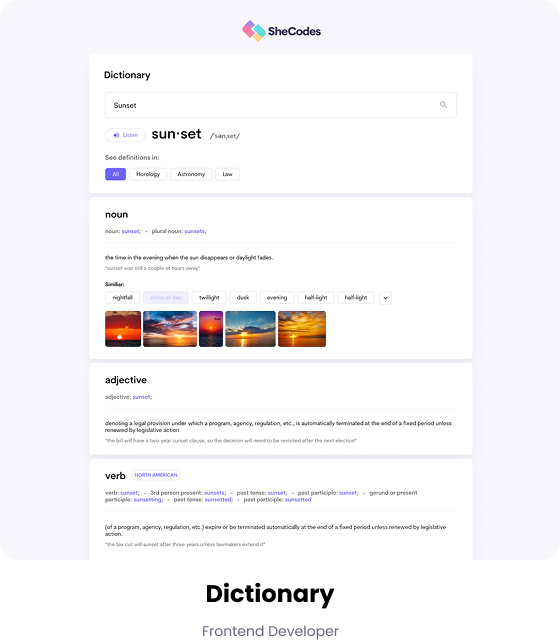
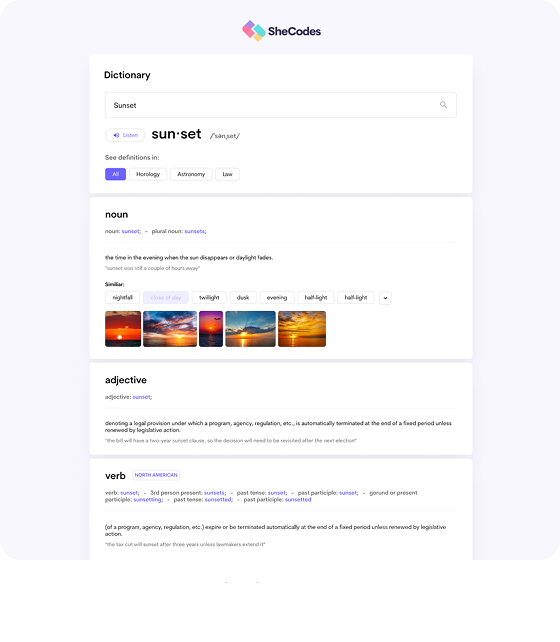
Added Work Page

Changed region(s): [[0.3643, 0.9034, 0.6071, 0.9969]]

diff --git a/work.html b/work.html
@@ -25,25 +25,38 @@
     />
     <link rel="stylesheet" href="styles/portfolio.css" />
     <meta name="viewport" content="width=device-width, initial-scale=1.0" />
-    <title>About Me</title>
+    <title>Work</title>
   </head>
   <body>
     <div class="content-container container">
-      <div class="row">
-        <div class="col-md-6">
-          <div class="content">
-            <h1 class="mb-4">Hi I am Emma Barber</h1>
-            <h2 class="mb-5">Frontend Developer based in the United States</h2>
-            <p class="mb-4">
-              I am a beginner front end developer learning new skills and
-              techniques everyday.
-            </p>
-            <a href="projects.html" class="btn btn-branding">See my projects</a>
+      <div class="content">
+        <h1 class="mb-5">Take a look at what I've been working on!</h1>
+
+        <div class="row">
+          <div class="col-md-6 mb-4">
+            <img
+              src="images/yogurt.png"
+              class="img-fluid mb-3 rounded"
+              alt=""
+            />
+            <h3 class="text-center m-0">Yogurt Project</h3>
+            <p class="text-center text-muted">Built with HTML and CSS</p>
           </div>
         </div>
-        <div class="col-md-6">
-          <img src="images/me.png" alt="Emma Barber" class="img-fluid" />
+        <div class="row">
+          <div class="col-md-6">
+            <img src="images/weather.png" class="img-fluid mb-3" alt="" />
+            <h3 class="text-center m-0">Weather App</h3>
+            <p class="text-center text-muted">Built with HTML, CSS, and JS</p>
+          </div>
         </div>
+      </div>
+    </div>
+    <div class="row">
+      <div class="col-md-6">
+        <img src="images/dictionary.png" class="img-fluid mb-3" alt="" />
+        <h3 class="text-center m-0">Dictionary App</h3>
+        <p class="text-center text-muted">Built with HTML, CSS, and React</p>
       </div>
     </div>
   </body>

diff --git a/styles/portfolio.css b/styles/portfolio.css
@@ -55,23 +55,33 @@ p {
   font-size: 24px;
 }
 
-.about-section {
+.content-container {
   padding: 160px 20px;
 }
 
-.about-section h1 {
+.content-container h1 {
   font-size: 64px;
   line-height: 80px;
   text-align: center;
 }
 
-.about-section h2 {
+.content-container h2 {
   font-size: 18px;
   font-family: var(--default-font-family);
   line-height: 1.2;
 }
 
-.about-section-content {
+.content h3 {
+  font-size: 24px;
+  line-height: 1.5;
+  font-family: var(--default-font-family);
+}
+
+.content p {
+  font-size: 14px;
+}
+
+.content {
   margin: 30px;
 }
 
@@ -111,7 +121,7 @@ p {
     padding: 80px 20px;
   }
 
-  .about-section {
+  .content {
     text-align: center;
     padding: 0;
   }
